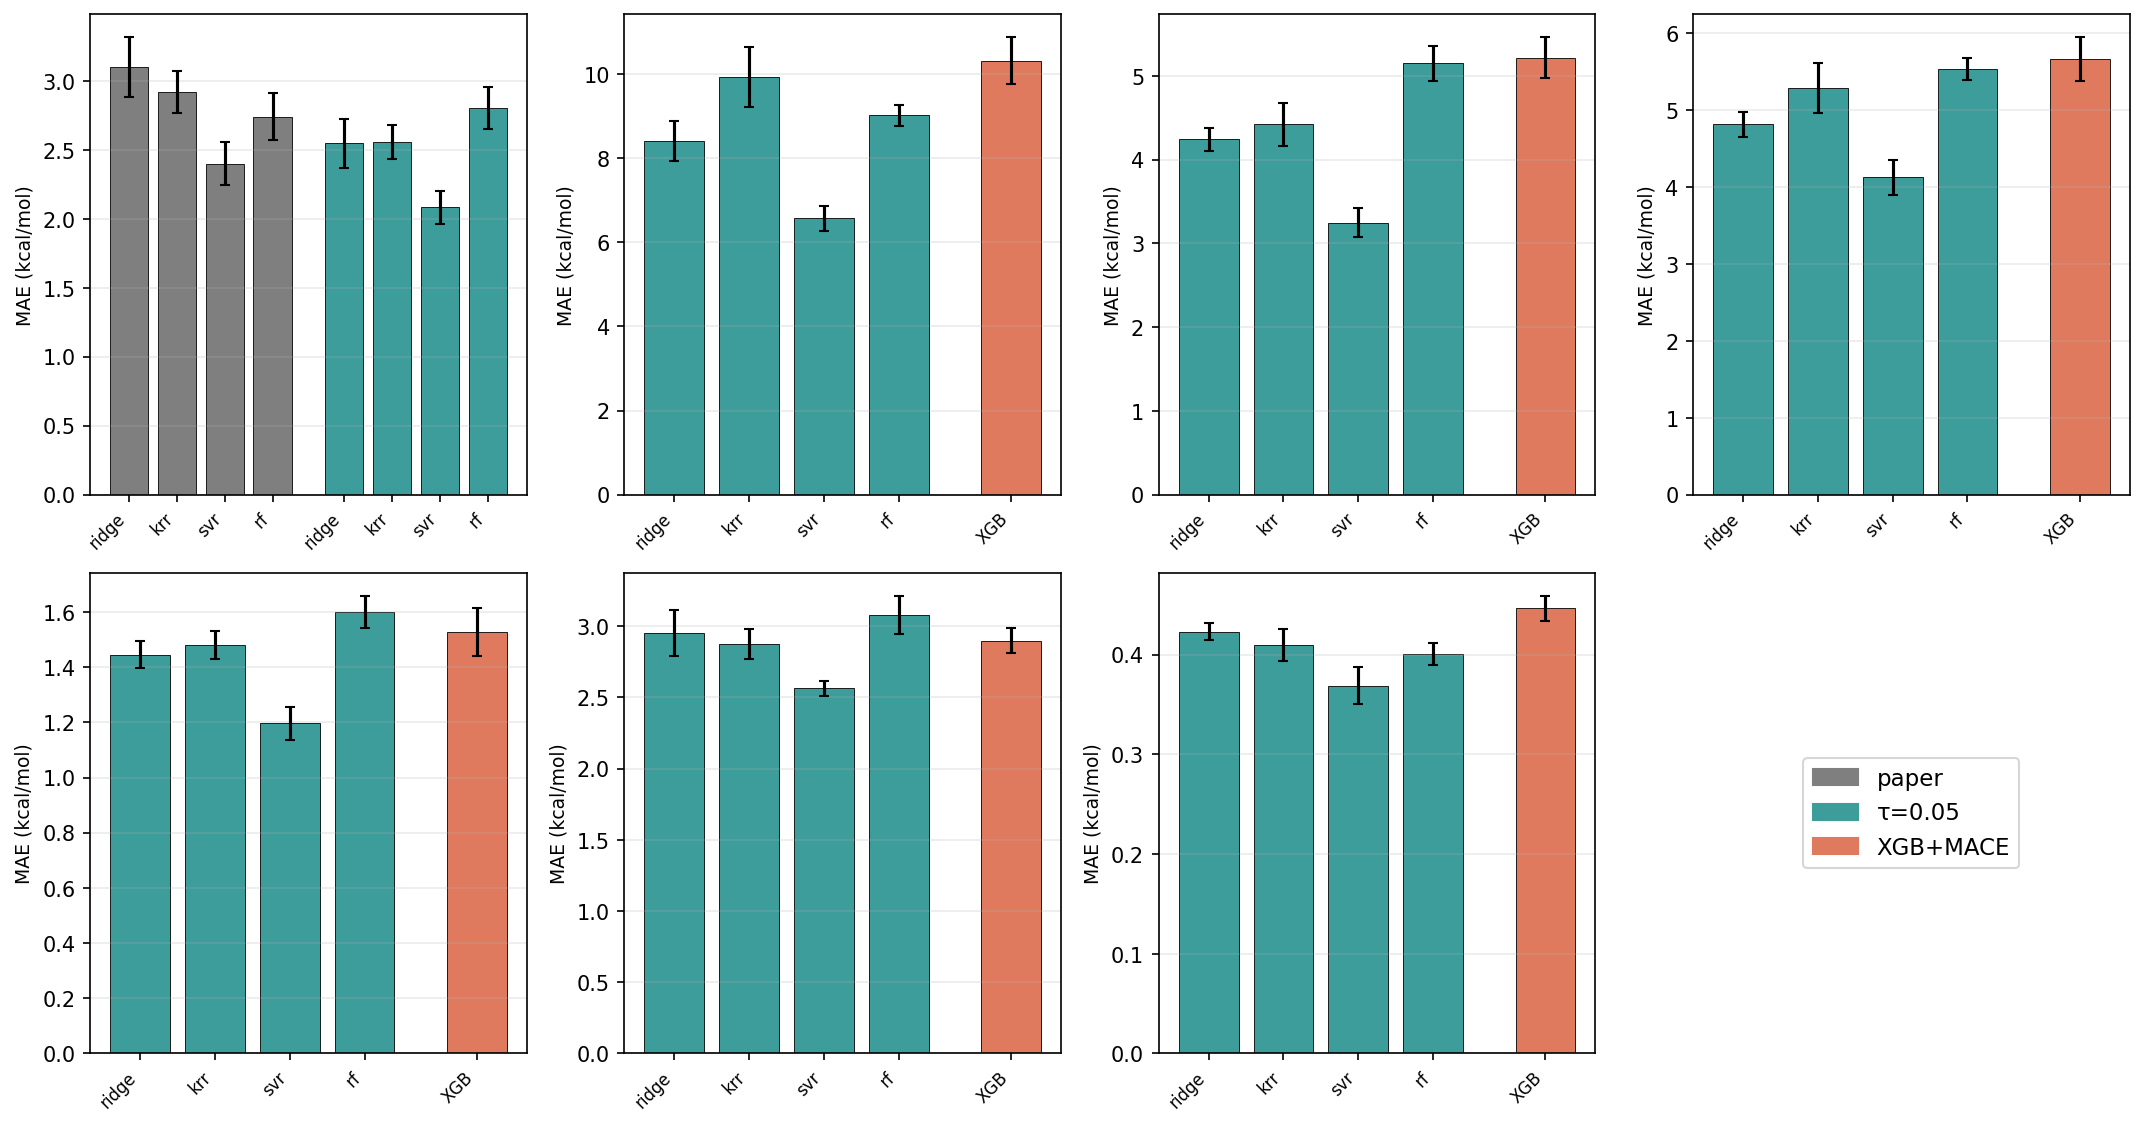
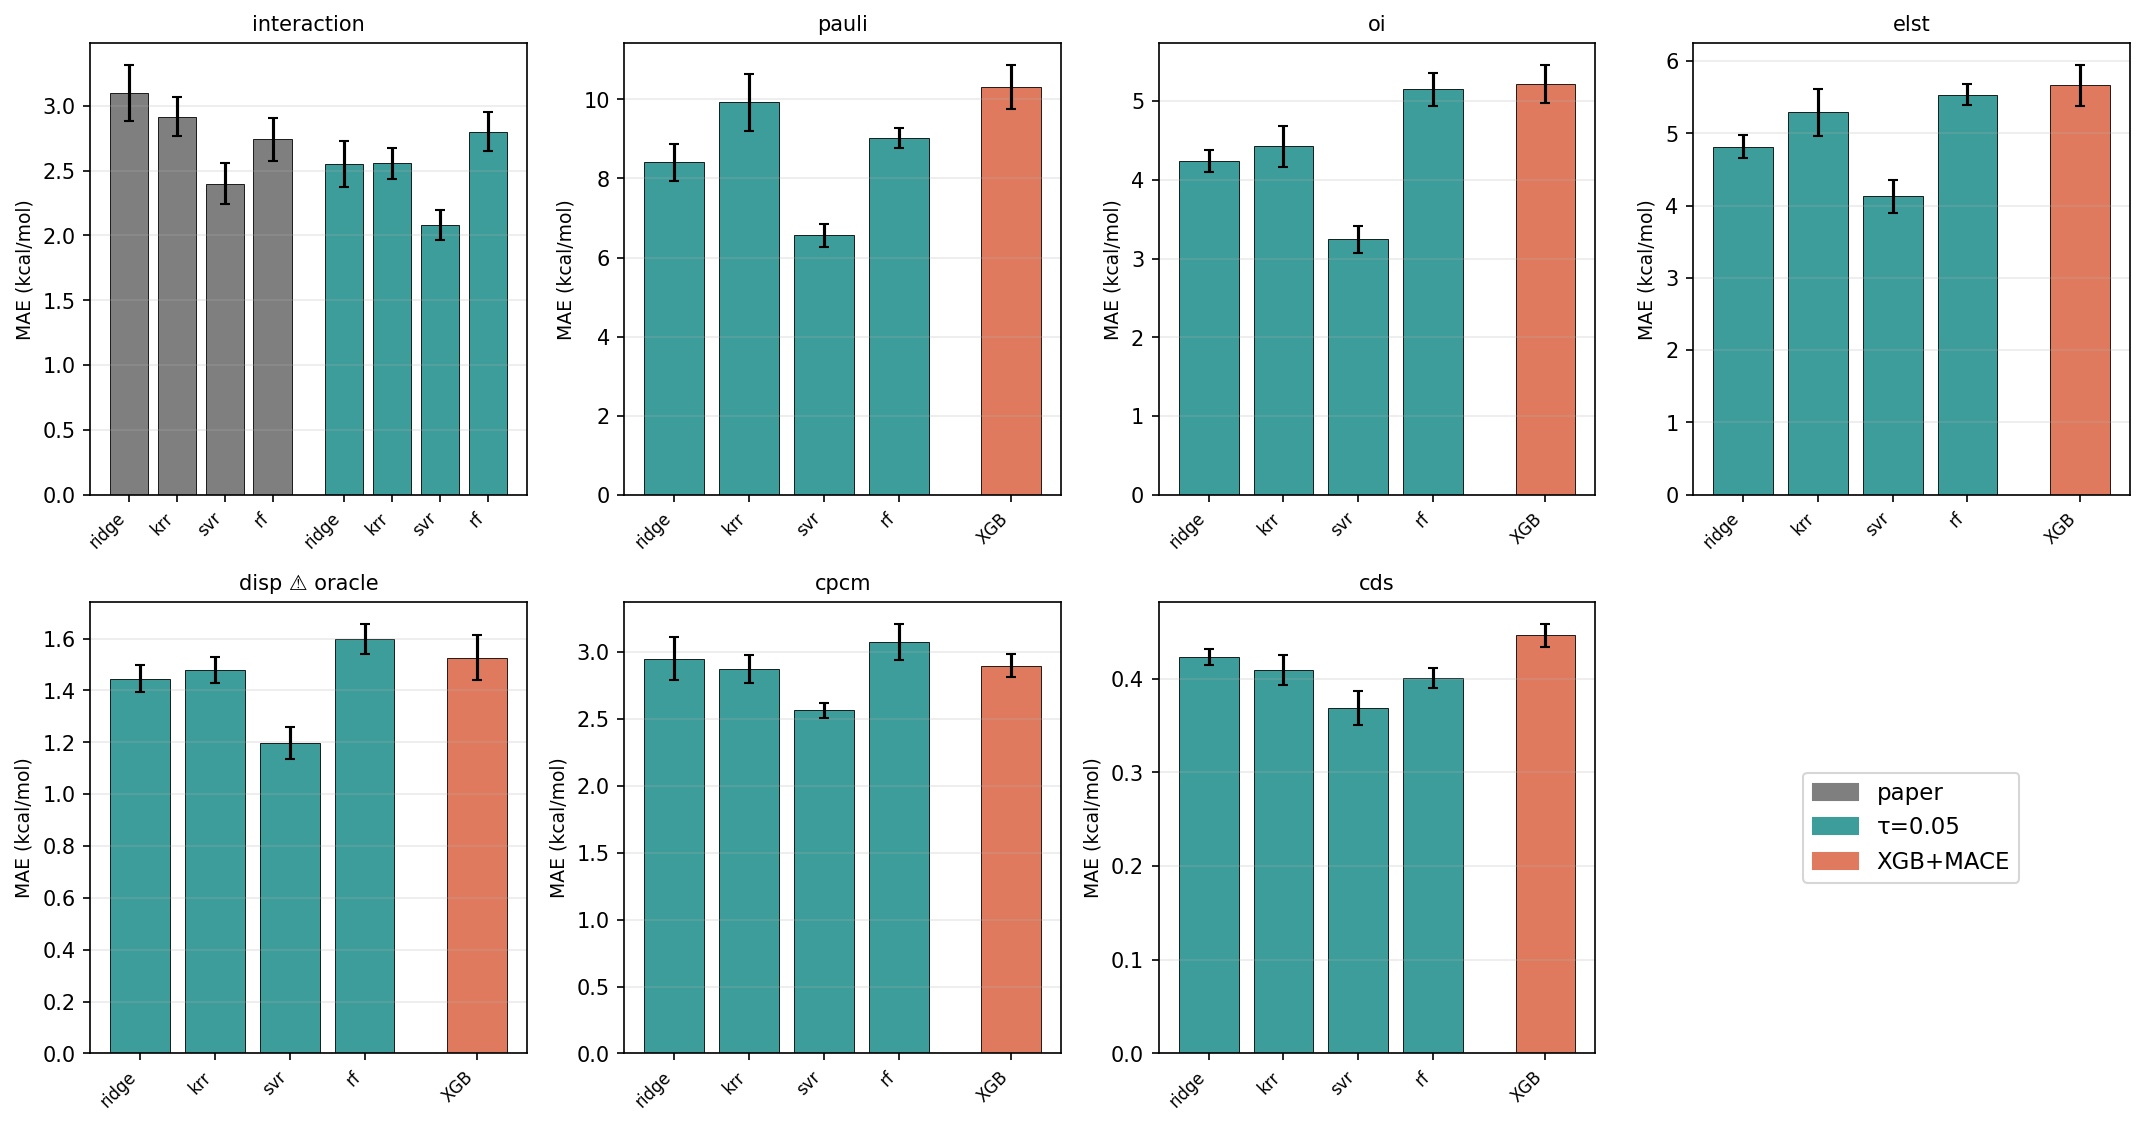
comparison_v3: restore subplot titles (only suptitle stays removed)
Previous commit dropped both suptitle and per-subplot titles. User only
wanted the overall suptitle gone; channel names (d1, d2, pauli, ...) must
stay as subplot titles.

Legend labels unchanged (paren-only, no 'Phase' prefix).

diff --git a/analysis/bath1480_probe/experiments/scripts/08_aggregate_v3.py b/analysis/bath1480_probe/experiments/scripts/08_aggregate_v3.py
@@ -217,6 +217,8 @@ def figure_grouped_bars(records, canonicals, metric_col, err_col, title, ylabel,
                           edgecolor="black", linewidth=0.4)
             target_ax.set_xticks(bar_positions)
             target_ax.set_xticklabels(bar_labels, rotation=45, ha="right", fontsize=8)
+            title_txt = canon + (" ⚠ oracle" if oracle else "")
+            target_ax.set_title(title_txt, fontsize=10)
             target_ax.set_ylabel(ylabel, fontsize=9)
             target_ax.grid(axis="y", alpha=0.25)
             if ymin is not None: target_ax.set_ylim(bottom=ymin)
